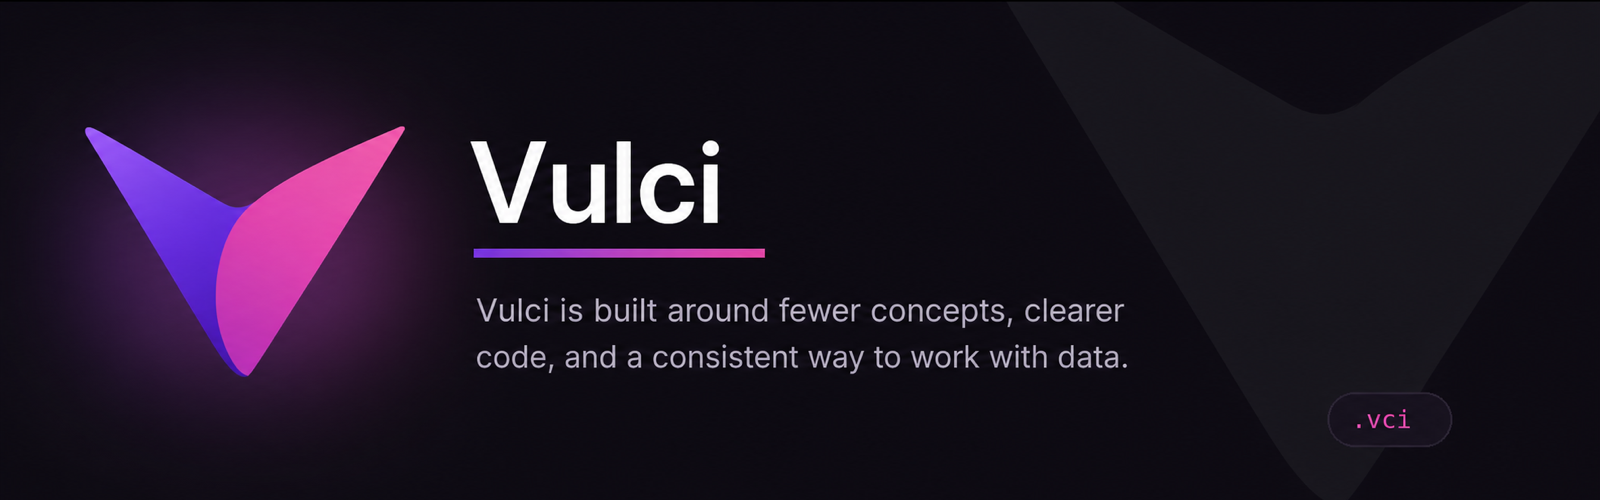
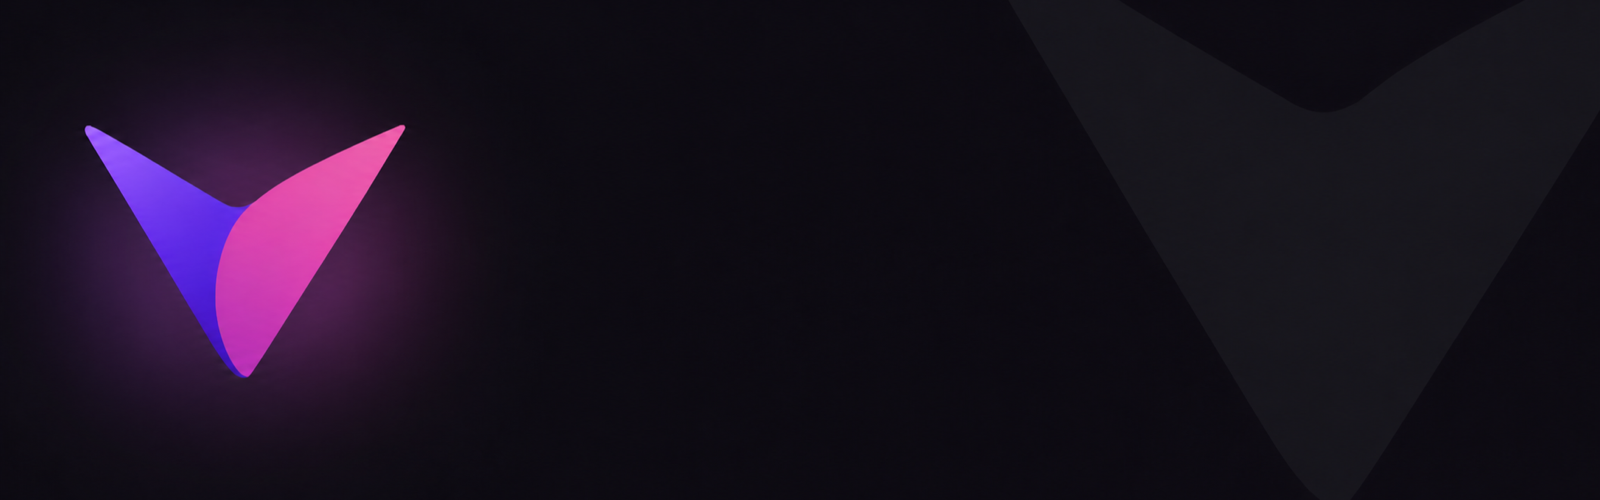
✨ Add branding

diff --git a/README.md b/README.md
@@ -1,14 +1,19 @@
 <!-- Phase: Branding exploration after Phase 17 -->
 
 <picture>
-  <source media="(prefers-color-scheme: dark)" srcset="branding/vulci-readme-banner-dark.png">
-  <source media="(prefers-color-scheme: light)" srcset="branding/vulci-readme-banner-light.png">
-  <img alt="Vulci is built around fewer concepts, clearer code, and a consistent way to work with data." src="branding/vulci-readme-banner-light.png">
+  <source media="(prefers-color-scheme: dark)" srcset="branding/vulci-readme-hero-dark.png">
+  <source media="(prefers-color-scheme: light)" srcset="branding/vulci-readme-hero-light.png">
+  <img alt="Vulci" src="branding/vulci-readme-hero-light.png">
 </picture>
 
-# Vulci
+<p align="center"><strong>Vulci is built around fewer concepts, clearer code, and a consistent way to work with data.</strong></p>
 
-Vulci is built around fewer concepts, clearer code, and a consistent way to work with data.
+<p align="center">
+  <a href="#quick-start">Quick start</a> ·
+  <a href="#why-vulci">Why Vulci?</a> ·
+  <a href="#documentation">Documentation</a> ·
+  <a href="#development">Development</a>
+</p>
 
 Vulci aims to make programs easier to understand by combining a small set of
 consistent language features. Its central design goal is one mental model for
